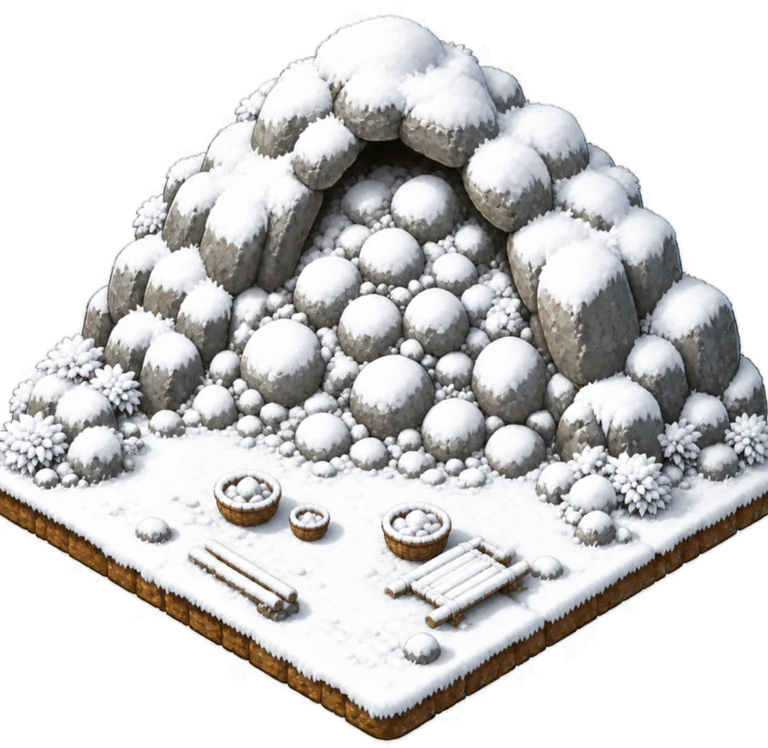
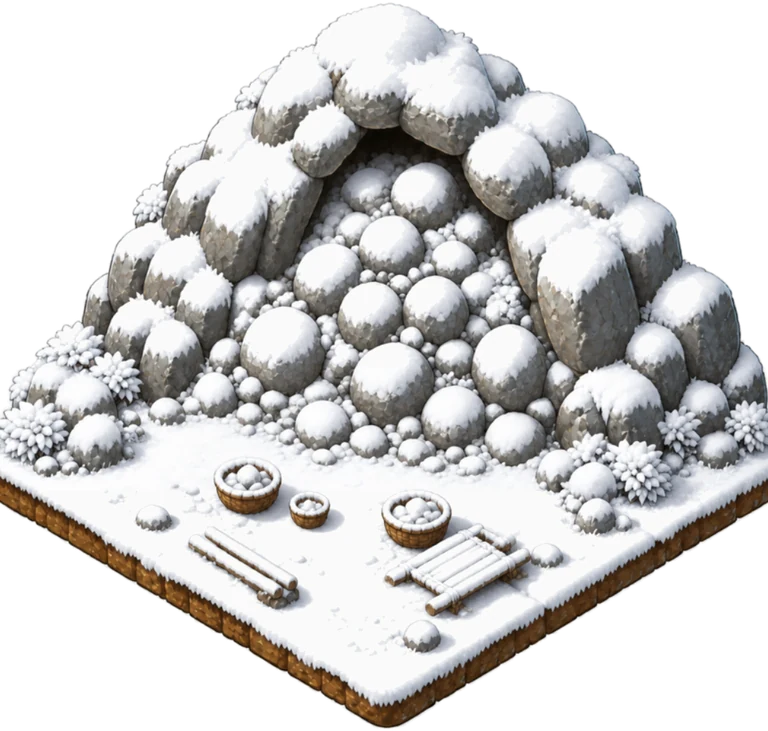
Epochia (gesammelt): Winterbild der halbfertigen Höhle, Höhlen-Baustelle ohne weißen Saum (neu/tools/schnee-rand.py)
Claude-Session: https://claude.ai/code/session_01W1n1hhxqAtjiGCXfWPeiEL

diff --git a/neu/tools/schnee-rand.py b/neu/tools/schnee-rand.py
@@ -1,0 +1,15 @@
+#!/usr/bin/env python3
+# Gegen weißen Saum bei Winterbildern: python3 neu/tools/schnee-rand.py quelle.png vor.png 0.52 0.68 10
+# danach bild-einbauen.py vor.png ziel.webp <breite> --schnee --toleranz=1
+# Setzt fast-weiße Punkte außerhalb eines waagrechten Bands (dort liegen die Plattenecken mit Schnee) exakt auf die
+# Hintergrundfarbe, damit das Freistellen dort gründlicher ist. oben-weiss.py quelle ziel von bis toleranz
+import sys
+from PIL import Image
+src,dst,a,b,tol=sys.argv[1],sys.argv[2],float(sys.argv[3]),float(sys.argv[4]),int(sys.argv[5])
+im=Image.open(src).convert('RGB');w,h=im.size;p=im.load()
+bg=sorted(p[c] for c in [(2,2),(w-3,2),(2,h-3),(w-3,h-3)])[1]
+for y in range(h):
+    if h*a <= y <= h*b: continue
+    for x in range(w):
+        if max(abs(p[x,y][i]-bg[i]) for i in range(3))<=tol: p[x,y]=bg
+im.save(dst)
